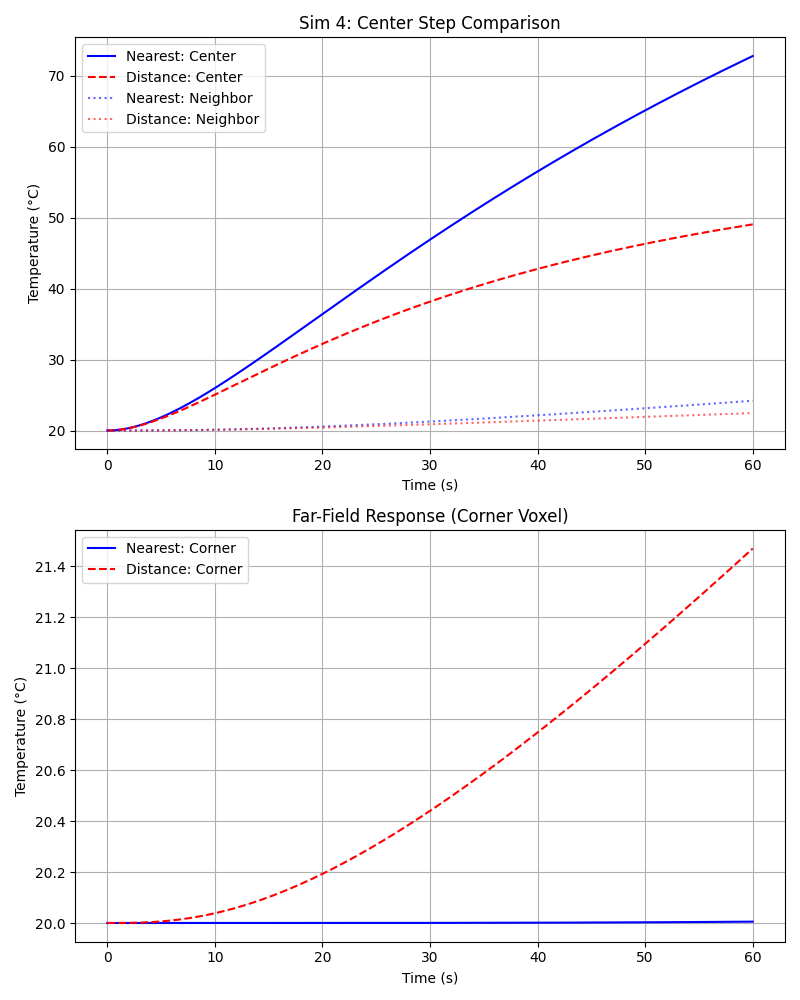
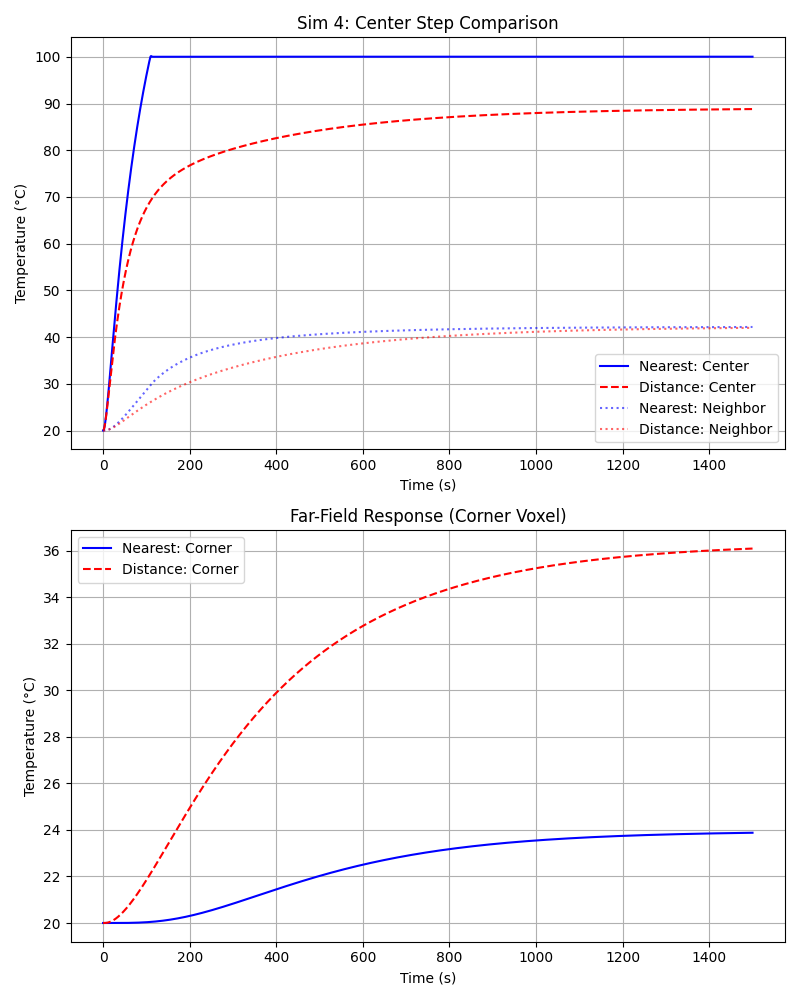
Refine simulation analysis and update model parameters
- Revised the simulation analysis document to clarify the impact of distance-based coupling, changing the coupling coefficient to reflect an inverse square relationship.
- Updated the simulation scripts to extend the duration of tests to 1500 seconds, enhancing the evaluation of thermal dynamics and response times.
- Improved the organization of control input outputs, distinguishing between saturated and unsaturated LQR inputs for better clarity in results.
- Added new figures to visualize the differences in thermal response between nearest-neighbor and distance-based models, emphasizing the effects of global interactions.

diff --git a/src/run_simulations.py b/src/run_simulations.py
@@ -23,30 +23,42 @@ def run_simulation():
     
     # Common Simulation Settings
     dt = 0.05 
-    duration = 60.0
+    duration = 1500.0
     steps = int(duration / dt)
     time = np.linspace(0, duration, steps)
     
     def simulate(model, K, y0, T_target_map, saturation=True):
+        """
+        Simulate closed-loop dynamics, returning both saturated (applied)
+        and unsaturated LQR inputs.
+        """
         y_star, u_star = model.get_steady_state(T_target_map)
         y_current = y0.copy()
         y_hist = np.zeros((steps, 2*N))
-        u_hist = np.zeros((steps, N))
+        u_hist_sat = np.zeros((steps, N))
+        u_hist_unsat = np.zeros((steps, N))
         
         for i in range(steps):
             y_tilde = y_current - y_star
             delta_u = -K @ y_tilde
-            u_applied = u_star + delta_u
-            if saturation:
-                u_applied = np.clip(u_applied, 0.0, params.P_MAX)
-            y_hist[i] = y_current
-            u_hist[i] = u_applied
             
-            # Integrate
+            # Unconstrained LQR command
+            u_unsat = u_star + delta_u
+            # Applied command (possibly saturated)
+            if saturation:
+                u_applied = np.clip(u_unsat, 0.0, params.P_MAX)
+            else:
+                u_applied = u_unsat
+            
+            y_hist[i] = y_current
+            u_hist_sat[i] = u_applied
+            u_hist_unsat[i] = u_unsat
+            
+            # Integrate using applied input
             dy = model.sys.A @ y_current + model.sys.B @ u_applied + model.sys.E
             y_current += dy * dt
             
-        return time, y_hist, u_hist, y_star, u_star
+        return time, y_hist, u_hist_sat, u_hist_unsat, y_star, u_star
 
     # Initial Condition (Ambient)
     y0_amb, _ = model_nearest.get_steady_state(np.ones((NY, NX)) * params.TEMP_AMBIENT)
@@ -56,7 +68,7 @@ def run_simulation():
     T_target_1 = np.ones((NY, NX)) * params.TEMP_AMBIENT
     center_idx = (NY // 2, NX // 2)
     T_target_1[center_idx] = 100.0
-    t1, y1, u1, _, _ = simulate(model_nearest, K_nearest, y0_amb, T_target_1)
+    t1, y1, u1_sat, u1_unsat, _, _ = simulate(model_nearest, K_nearest, y0_amb, T_target_1)
     
     fig1, (ax1a, ax1b) = plt.subplots(2, 1, figsize=(8, 10))
     center_flat = center_idx[0]*NX + center_idx[1]
@@ -70,8 +82,8 @@ def run_simulation():
     ax1a.legend()
     ax1a.grid(True)
     
-    ax1b.plot(t1, u1[:, center_flat], label='Center Input')
-    ax1b.plot(t1, u1[:, neighbor_flat], label='Neighbor Input')
+    ax1b.plot(t1, u1_sat[:, center_flat], label='Center Input')
+    ax1b.plot(t1, u1_sat[:, neighbor_flat], label='Neighbor Input')
     ax1b.set_title('Control Inputs')
     ax1b.set_ylabel('Power (W)')
     ax1b.set_xlabel('Time (s)')
@@ -83,9 +95,10 @@ def run_simulation():
 
     # --- Simulation 2: Nearest Neighbor - Uniform Heating ---
     T_target_2 = np.ones((NY, NX)) * 100.0
-    t2, y2, u2, _, _ = simulate(model_nearest, K_nearest, y0_amb, T_target_2)
+    t2, y2, u2_sat, u2_unsat, _, _ = simulate(model_nearest, K_nearest, y0_amb, T_target_2)
     
-    fig2, (ax2a, ax2b) = plt.subplots(2, 1, figsize=(8, 10))
+    fig2, (ax2a, ax2b, ax2c) = plt.subplots(3, 1, figsize=(8, 12))
+    # Temperature trajectories
     ax2a.plot(t2, y2[:, 0], label='Corner Voxel')
     ax2a.plot(t2, y2[:, center_flat], label='Center Voxel', linestyle='--')
     ax2a.axhline(100, color='k', linestyle=':', alpha=0.5)
@@ -95,14 +108,25 @@ def run_simulation():
     ax2a.legend()
     ax2a.grid(True)
     
-    ax2b.plot(t2, u2[:, 0], label='Corner Input')
-    ax2b.plot(t2, u2[:, center_flat], label='Center Input')
+    # Applied (saturated) inputs
+    ax2b.plot(t2, u2_sat[:, 0], label='Corner Input (Saturated)')
+    ax2b.plot(t2, u2_sat[:, center_flat], label='Center Input (Saturated)')
     ax2b.axhline(params.P_MAX, color='r', linestyle='--', label='Saturation Limit')
-    ax2b.set_title('Control Inputs')
+    ax2b.set_title('Control Inputs with Saturation')
     ax2b.set_ylabel('Power (W)')
     ax2b.set_xlabel('Time (s)')
     ax2b.legend()
     ax2b.grid(True)
+
+    # Unconstrained LQR inputs (for reference)
+    ax2c.plot(t2, u2_unsat[:, 0], label='Corner Input (Unsaturated)')
+    ax2c.plot(t2, u2_unsat[:, center_flat], label='Center Input (Unsaturated)')
+    ax2c.set_title('Unconstrained LQR Inputs (Not Physically Realizable)')
+    ax2c.set_ylabel('Power (W)')
+    ax2c.set_xlabel('Time (s)')
+    ax2c.legend()
+    ax2c.grid(True)
+
     fig2.tight_layout()
     fig2.savefig('figures_writting/sim_outputs/sim2_uniform_sat.png')
     plt.close(fig2)
@@ -110,11 +134,13 @@ def run_simulation():
     # --- Simulation 3: Nearest Neighbor - Gradient ---
     T_target_3 = np.ones((NY, NX)) * params.TEMP_AMBIENT
     for x in range(NX):
-        if x < NX // 2: T_target_3[:, x] = 100.0
-        else: T_target_3[:, x] = 20.0
-    t3, y3, u3, _, _ = simulate(model_nearest, K_nearest, y0_amb, T_target_3)
+        if x < NX // 2:
+            T_target_3[:, x] = 100.0
+        else:
+            T_target_3[:, x] = 20.0
+    t3, y3, u3_sat, u3_unsat, _, _ = simulate(model_nearest, K_nearest, y0_amb, T_target_3)
     
-    fig3, axes = plt.subplots(2, 2, figsize=(10, 8))
+    fig3, axes = plt.subplots(3, 2, figsize=(10, 12))
     T_final = y3[-1, :N].reshape((NY, NX))
     
     # Heatmap Helper
@@ -127,10 +153,25 @@ def run_simulation():
         cbar.set_label(cbar_label)
         return im
 
+    # Row 1: Temperatures (final and target)
     plot_heatmap(axes[0,0], T_final, 'Final Temp (Nearest)', 'Temp (°C)', 20, 100)
     plot_heatmap(axes[0,1], T_target_3, 'Target Temp', 'Temp (°C)', 20, 100)
-    plot_heatmap(axes[1,0], u3[-1, :].reshape((NY, NX)), 'Steady State Power', 'Power (W)', 0, params.P_MAX, cmap='plasma')
-    plot_heatmap(axes[1,1], T_final - T_target_3, 'Error (Actual - Target)', 'Error (°C)', -5, 5, cmap='RdBu_r')
+
+    # Row 2: Applied steady-state power and temperature error
+    plot_heatmap(axes[1,0], u3_sat[-1, :].reshape((NY, NX)),
+                 'Steady State Power (Saturated)', 'Power (W)',
+                 0, params.P_MAX, cmap='plasma')
+    plot_heatmap(axes[1,1], T_final - T_target_3,
+                 'Error (Actual - Target)', 'Error (°C)',
+                 -5, 5, cmap='RdBu_r')
+
+    # Row 3: Unconstrained LQR power and clipping map
+    plot_heatmap(axes[2,0], u3_unsat[-1, :].reshape((NY, NX)),
+                 'Unconstrained LQR Power', 'Power (W)',
+                 None, None, cmap='plasma')
+    plot_heatmap(axes[2,1], (u3_unsat[-1, :] - u3_sat[-1, :]).reshape((NY, NX)),
+                 'Clipping (Unsat - Sat)', 'Power (W)',
+                 None, None, cmap='RdBu_r')
     
     fig3.tight_layout()
     fig3.savefig('figures_writting/sim_outputs/sim3_gradient.png')
@@ -173,11 +214,11 @@ def run_simulation():
     print("Running Distance-Based Sims...")
     
     # Sim 4a: Step Response Comparison
-    t4, y4, u4, _, _ = simulate(model_distance, K_distance, y0_amb, T_target_1)
+    t4, y4, u4_sat, u4_unsat, _, _ = simulate(model_distance, K_distance, y0_amb, T_target_1)
     
     # --- EXTRA SIM: Long Duration Step Response ---
     print("Running Long Duration Sim...")
-    duration_long = 600.0 # 10 minutes
+    duration_long = 1500.0 # 25 minutes
     steps_long = int(duration_long / dt)
     time_long = np.linspace(0, duration_long, steps_long)
     
@@ -203,7 +244,7 @@ def run_simulation():
     fig6, ax6 = plt.subplots(figsize=(8, 6))
     ax6.plot(t_long_near, y_long_near[:, 0], 'b-', label='Nearest: Corner')
     ax6.plot(t_long_dist, y_long_dist[:, 0], 'r--', label='Distance: Corner')
-    ax6.set_title('Long Duration (600s) Far-Field Response')
+    ax6.set_title('Long Duration (1500s) Far-Field Response')
     ax6.set_ylabel('Temperature (°C)')
     ax6.set_xlabel('Time (s)')
     ax6.legend()
@@ -217,10 +258,34 @@ def run_simulation():
     # Target: Center = 20C, Surroundings = 100C
     T_target_7 = np.ones((NY, NX)) * 100.0
     T_target_7[center_idx] = 20.0
+
+    # Custom simulation to record both saturated and unsaturated inputs
+    y_star_7, u_star_7 = model_nearest.get_steady_state(T_target_7)
+    y_current = y0_amb.copy()
+    y7 = np.zeros((steps, 2 * N))
+    u7_sat = np.zeros((steps, N))
+    u7_unsat = np.zeros((steps, N))
+
+    for i in range(steps):
+        y_tilde = y_current - y_star_7
+        delta_u = -K_nearest @ y_tilde
+
+        # Unsaturated LQR command
+        u_unsat = u_star_7 + delta_u
+        # Applied (saturated) command respecting physical limits
+        u_sat = np.clip(u_unsat, 0.0, params.P_MAX)
+
+        y7[i] = y_current
+        u7_sat[i] = u_sat
+        u7_unsat[i] = u_unsat
+
+        dy = model_nearest.sys.A @ y_current + model_nearest.sys.B @ u_sat + model_nearest.sys.E
+        y_current += dy * dt
+
+    t7 = time
     
-    t7, y7, u7, _, _ = simulate(model_nearest, K_nearest, y0_amb, T_target_7)
-    
-    fig7, (ax7a, ax7b) = plt.subplots(2, 1, figsize=(8, 10))
+    fig7, (ax7a, ax7b, ax7c) = plt.subplots(3, 1, figsize=(8, 12))
+    # Temperature response (with saturated inputs)
     ax7a.plot(t7, y7[:, center_flat], label='Center Voxel (Target 20°C)')
     ax7a.plot(t7, y7[:, neighbor_flat], label='Neighbor Voxel (Target 100°C)')
     ax7a.axhline(20.0, color='g', linestyle='--', label='Center Target')
@@ -231,13 +296,23 @@ def run_simulation():
     ax7a.legend()
     ax7a.grid(True)
     
-    ax7b.plot(t7, u7[:, center_flat], label='Center Input')
-    ax7b.plot(t7, u7[:, neighbor_flat], label='Neighbor Input')
+    # Saturated control inputs (applied)
+    ax7b.plot(t7, u7_sat[:, center_flat], label='Center Input (Saturated)')
+    ax7b.plot(t7, u7_sat[:, neighbor_flat], label='Neighbor Input (Saturated)')
     ax7b.set_ylabel('Power (W)')
     ax7b.set_xlabel('Time (s)')
-    ax7b.set_title('Control Inputs (Center rails at 0W)')
+    ax7b.set_title('Control Inputs with Saturation (Center rails at 0W)')
     ax7b.legend()
     ax7b.grid(True)
+
+    # Unsaturated LQR commands (for reference)
+    ax7c.plot(t7, u7_unsat[:, center_flat], label='Center Input (Unsaturated)')
+    ax7c.plot(t7, u7_unsat[:, neighbor_flat], label='Neighbor Input (Unsaturated)')
+    ax7c.set_ylabel('Power (W)')
+    ax7c.set_xlabel('Time (s)')
+    ax7c.set_title('Unconstrained LQR Inputs (Not Physically Realizable)')
+    ax7c.legend()
+    ax7c.grid(True)
     
     fig7.tight_layout()
     fig7.savefig('figures_writting/sim_outputs/sim7_impossible_trap.png')
@@ -339,7 +414,7 @@ def run_simulation():
     plt.close(fig4)
     
     # Sim 4b: Gradient Heatmap Comparison
-    t5, y5, u5, _, _ = simulate(model_distance, K_distance, y0_amb, T_target_3)
+    t5, y5, u5_sat, u5_unsat, _, _ = simulate(model_distance, K_distance, y0_amb, T_target_3)
     
     fig5, axes = plt.subplots(2, 2, figsize=(10, 8))
     T_final_dist = y5[-1, :N].reshape((NY, NX))

diff --git a/figures_writting/simulation_analysis.tex b/figures_writting/simulation_analysis.tex
@@ -23,7 +23,7 @@ To validate the proposed Linear Quadratic Regulator (LQR) control scheme, we per
 \subsection{Physical Parameters}
 The simulation parameters were derived based on the physical properties of air at standard temperature and pressure, with the small heater/sensor nodes suspended in each voxel. The parameters strictly follow the linear model derived in Section~\ref{sec:modelling}, assuming pure conduction between nodes.
 
-The heater nodes possess a significantly higher heat capacity than the air surrounding them ($c_{heater} \approx 1.6\,\text{J/K}$ vs $c_{air} \approx 0.26\,\text{J/K}$), leading to a system where the actuator dynamics are slower than the plant dynamics. The coupling coefficients $k_{ij}$ and $\kappa_i$ are derived from the thermal conductivity of air ($k_{th} \approx 0.026\,\text{W/mK}$).
+    The heater nodes possess a significantly higher heat capacity than the air surrounding them ($c_{heater} \approx 1.6\,\text{J/K}$ vs $c_{air} \approx 0.26\,\text{J/K}$), leading to a system where the actuator dynamics are slower than the thermal volume dynamics. The coupling coefficients $k_{ij}$ and $\kappa_i$ are derived from the thermal conductivity of air ($k_{th} \approx 0.026\,\text{W/mK}$).
 
 The derived model coefficients are summarized in Table~\ref{tab:params}.
 
@@ -61,11 +61,11 @@ For adjacent voxels sharing a face, the distance $d$ is the voxel side length $L
 Substituting our parameters ($k_{th}=0.026, L=0.06, c_i=0.26$) yields the baseline rate $k_0 \approx 0.006\,\text{s}^{-1}$.
 
 \subsubsection*{Distance-Based Model}
-For the extended model considering global interactions, we assume the effective conductance decays inversely with Euclidean distance $d_{ij}$ between voxel centers. The general coupling coefficient is:
-\begin{equation}
-    k_{ij} = k_0 \left(\frac{L}{d_{ij}}\right)
-\end{equation}
-where $k_0$ is the nearest-neighbor rate derived above. This ensures that adjacent voxels ($d_{ij}=L$) retain the same coupling strength, while remote voxels interact with reduced intensity.
+    For the extended model considering global interactions, we assume the effective conductance decays with the inverse square of the Euclidean distance $d_{ij}$ between voxel centers, motivated by Gauss's law for flux from a point source. The general coupling coefficient is:
+    \begin{equation}
+        k_{ij} = k_0 \left(\frac{L}{d_{ij}}\right)^2
+    \end{equation}
+    where $k_0$ is the nearest-neighbor rate derived above. This ensures that adjacent voxels ($d_{ij}=L$) retain the same coupling strength, while remote voxels interact with reduced intensity.
 
 \subsection{Simulation 1: Single Voxel Step Response}
 The first test commands the center voxel (coordinates $(2,2)$) to $100^\circ$C. In this and subsequent plots, "Neighbor" refers to the adjacent voxel at $(2,3)$, and "Corner" refers to the far-field voxel at $(0,0)$.
@@ -106,25 +106,25 @@ The error map reveals a fundamental limitation: while the hot side tracks perfec
 \section{Distance-Based Coupling}
 We extended the model to investigate the effect of long-range thermal interactions. In the standard model, heat transfer is restricted to nearest neighbors (sharing a face). Here, we introduce a global coupling term where every voxel interacts with every other voxel, utilizing the inverse-distance decay law derived in the previous section. This models a more diffuse radiative or convective heat transfer mechanism that is not strictly local.
 
-\subsection{Simulation 4: Impact of Global Coupling}
-Figure~\ref{fig:sim4} compares the step response of the Center voxel between the Nearest-Neighbor (Blue) and Distance-Based (Red) models.
-The primary effect of the $1/d$ coupling is an increase in effective thermal inertia and crosstalk. The "Distance: Neighbor" trace (red dotted line) rises clearly, indicating that heat is "leaking" via the direct $1/d$ coupling to the surrounding volume.
-
-In contrast, the far-field response (Corner Voxel, bottom panel) reveals a critical dynamic difference. For the Nearest-Neighbor model, the corner voxel temperature remains effectively constant ($20.0^\circ$C) over the 60-second window. This is physically expected: with $k_{ij} \approx 0.006\,\text{s}^{-1}$, the diffusion time constant is $\tau \approx 160\,\text{s}$. Heat must hop sequentially through two intervening voxels to reach the corner, a process that takes significantly longer than the simulation horizon. The Distance-Based model, however, acts as a "thermal short-circuit," allowing heat to radiate directly from the center to the corner, causing an immediate (albeit slow) rise.
+    \subsection{Simulation 4: Impact of Global Coupling}
+    Figure~\ref{fig:sim4} compares the step response of the Center voxel between the Nearest-Neighbor (Blue) and Distance-Based (Red) models.
+    The primary effect of the $1/d^2$ coupling is an increase in effective thermal inertia and crosstalk. The "Distance: Neighbor" trace (red dotted line) rises clearly, indicating that heat is "leaking" via the direct coupling to the surrounding volume.
+    
+    In contrast, the far-field response (Corner Voxel, bottom panel) reveals a critical dynamic difference. For the Nearest-Neighbor model, the corner voxel temperature rises slowly after a significant transport lag. This is physically expected: with $k_{ij} \approx 0.006\,\text{s}^{-1}$, the diffusion time constant is $\tau \approx 160\,\text{s}$. Heat must hop sequentially through two intervening voxels to reach the corner. The Distance-Based model, however, acts as a "thermal short-circuit," allowing heat to radiate directly from the center to the corner, causing an immediate rise that precedes the diffusive wave.
 
 \begin{figure}[H]
     \centering
     \includegraphics[width=0.8\textwidth]{sim_outputs/sim4_comparison_step.png}
-    \caption{Comparison of step response for Nearest-Neighbor vs. Distance-Based coupling. Note the flat response of the corner voxel in the nearest-neighbor case (blue solid), indicating that the diffusion wave has not yet reached the boundary.}
+    \caption{Comparison of step response for Nearest-Neighbor vs. Distance-Based coupling over 1500s. The corner voxel in the nearest-neighbor case (blue solid) shows a distinct transport lag compared to the immediate response of the distance-based model (red dashed).}
     \label{fig:sim4}
 \end{figure}
 
-To verify the diffusion behavior, we extended the simulation to 600 seconds (10 minutes). Figure~\ref{fig:sim6} confirms that the Nearest-Neighbor model does eventually propagate heat to the corner, but with a significant time lag compared to the global coupling model.
+To verify the diffusion behavior, we extended the simulation to 1500 seconds (25 minutes). Figure~\ref{fig:sim6} confirms that the Nearest-Neighbor model does eventually propagate heat to the corner, but with a significant time lag compared to the global coupling model.
 
 \begin{figure}[H]
     \centering
     \includegraphics[width=0.8\textwidth]{sim_outputs/sim6_long_duration.png}
-    \caption{Long duration (600s) response of the corner voxel. The Nearest-Neighbor model (Blue) shows a distinct transport lag, while the Distance-Based model (Red) responds immediately due to direct coupling.}
+    \caption{Long duration (1500s) response of the corner voxel. The Nearest-Neighbor model (Blue) shows a distinct transport lag, while the Distance-Based model (Red) responds immediately due to direct coupling.}
     \label{fig:sim6}
 \end{figure}
 

diff --git a/src/model.py b/src/model.py
@@ -45,17 +45,16 @@ class ThermalModel2D:
         return neighbors
         
     def _get_neighbors_distance(self, idx: int) -> List[Tuple[int, float]]:
-        """Get ALL other voxels with 1/r coupling."""
+        """Get ALL other voxels with 1/r^2 coupling (Gauss's Law approximation)."""
         neighbors = []
         cy, cx = self._get_voxel_coords(idx)
         
         # Base coupling at distance L (nearest neighbor distance)
-        # k(d) = C / d. We want k(L) = K_NEIGHBOR.
-        # So C = K_NEIGHBOR * L.
-        # Then k(d) = K_NEIGHBOR * (L / d)
+        # k(d) = K_NEIGHBOR * (L / d)^2
         
         L = params.VOXEL_SIDE_LENGTH
-        C = params.K_NEIGHBOR * L
+        # We want k(L) = K_NEIGHBOR
+        # So Constant = K_NEIGHBOR * L^2
         
         for i in range(self.num_voxels):
             if i == idx:
@@ -68,7 +67,8 @@ class ThermalModel2D:
             dist_grid = np.sqrt((cy-iy)**2 + (cx-ix)**2)
             dist_meters = dist_grid * L
             
-            k_val = C / dist_meters
+            # k = k0 * (L/d)^2
+            k_val = params.K_NEIGHBOR * (L / dist_meters)**2
             neighbors.append((i, k_val))
             
         return neighbors
